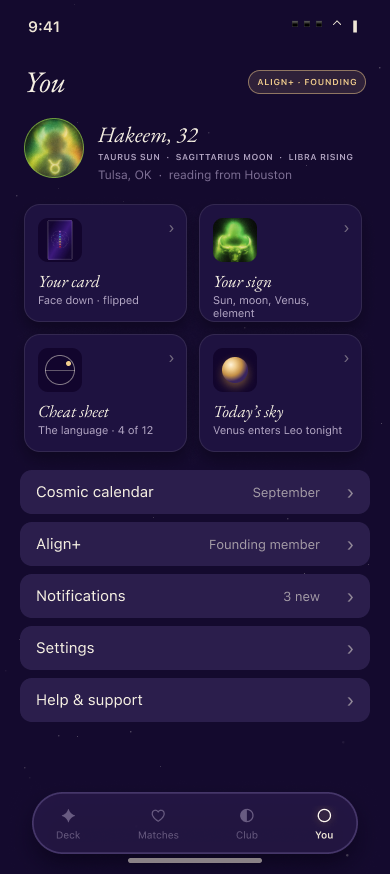
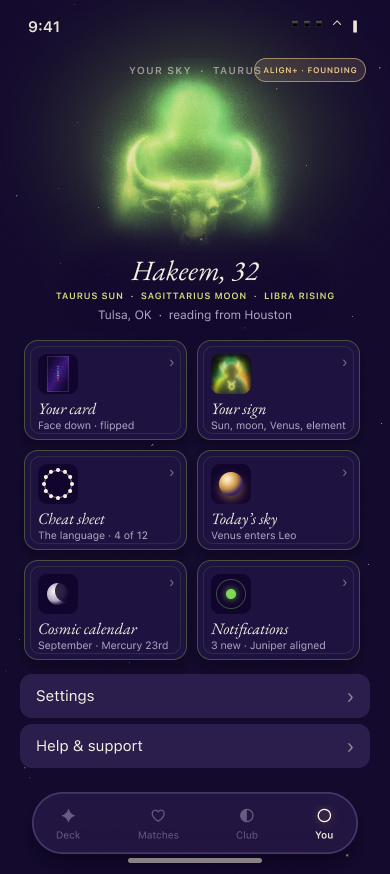
G-05 You · Home rebuilt as an oracle screen: figure hero, six mini-card tiles, two rows
Claude-Session: https://claude.ai/code/session_016YjMTARDAwfH7MsqGSPAVh

diff --git a/design/scores.md b/design/scores.md
@@ -381,16 +381,19 @@ and one line (*Hold the card to peak · 3 left*); the comet count now lives
 only on the gold ✦. The Peak state (S-05d) keeps its countdown header and
 no strip.
 
-### G-05 — You · Home, the hub (2026-09-21, founder note)
+### G-05 — You · Home, the hub (2026-09-22, founder note)
 
 The You tab landed on the card screen with a list under it; there was no
-hub. New `G-05 — You · Home` (`1809:2258`, Account row 2) is the landing
-screen: title *You* with an `ALIGN+ · FOUNDING` pill; identity strip (60px
-Taurus aura avatar, *Hakeem, 32*, `TAURUS SUN · SAGITTARIUS MOON · LIBRA
-RISING`, Tulsa · reading from Houston); a 2×2 of hub tiles, each with its
-own visual — **Your card** (card back) → G-05a, **Your sign** (Figure ·
-Taurus) → G-23, **Cheat sheet** (hairline glyph) → S-20 Glossary,
-**Today's sky** (gold sphere) → S-14; then five list rows — Cosmic calendar
-→ S-15, Align+ → G-13, Notifications → S-19, Settings → G-07, Help &
-support → G-29. The old G-05 is renamed `G-05a — Your Card · Face Down`
-and all 34 You-tab reactions across the file now point at the hub.
+hub. A first cut (avatar strip, four flat tiles, five rows) was "bland and
+not as cohesive as Stardust", so `G-05 — You · Home` (`1809:2258`, Account
+row 2) is built as an **oracle screen**: a Taurus-rim spotlight, the
+feathered `Figure · Taurus` tile as the hero at the top, a dark well under
+*Hakeem, 32* / `TAURUS SUN · SAGITTARIUS MOON · LIBRA RISING` / Tulsa ·
+reading from Houston; then **six mini cards** in the card language (panel,
+Taurus keyline, each with its own visual): Your card (card back) → G-05a,
+Your sign (Taurus aura) → G-23, Cheat sheet (twelve-dot ring) → S-20,
+Today's sky (gold sphere) → S-14, Cosmic calendar (moon) → S-15,
+Notifications (lit dot) → S-19; then two rows, Settings → G-07 and Help &
+support → G-29. The `ALIGN+ · FOUNDING` pill top right opens G-13. The old
+G-05 is renamed `G-05a — Your Card · Face Down`; all 34 You-tab reactions
+point at the hub.
